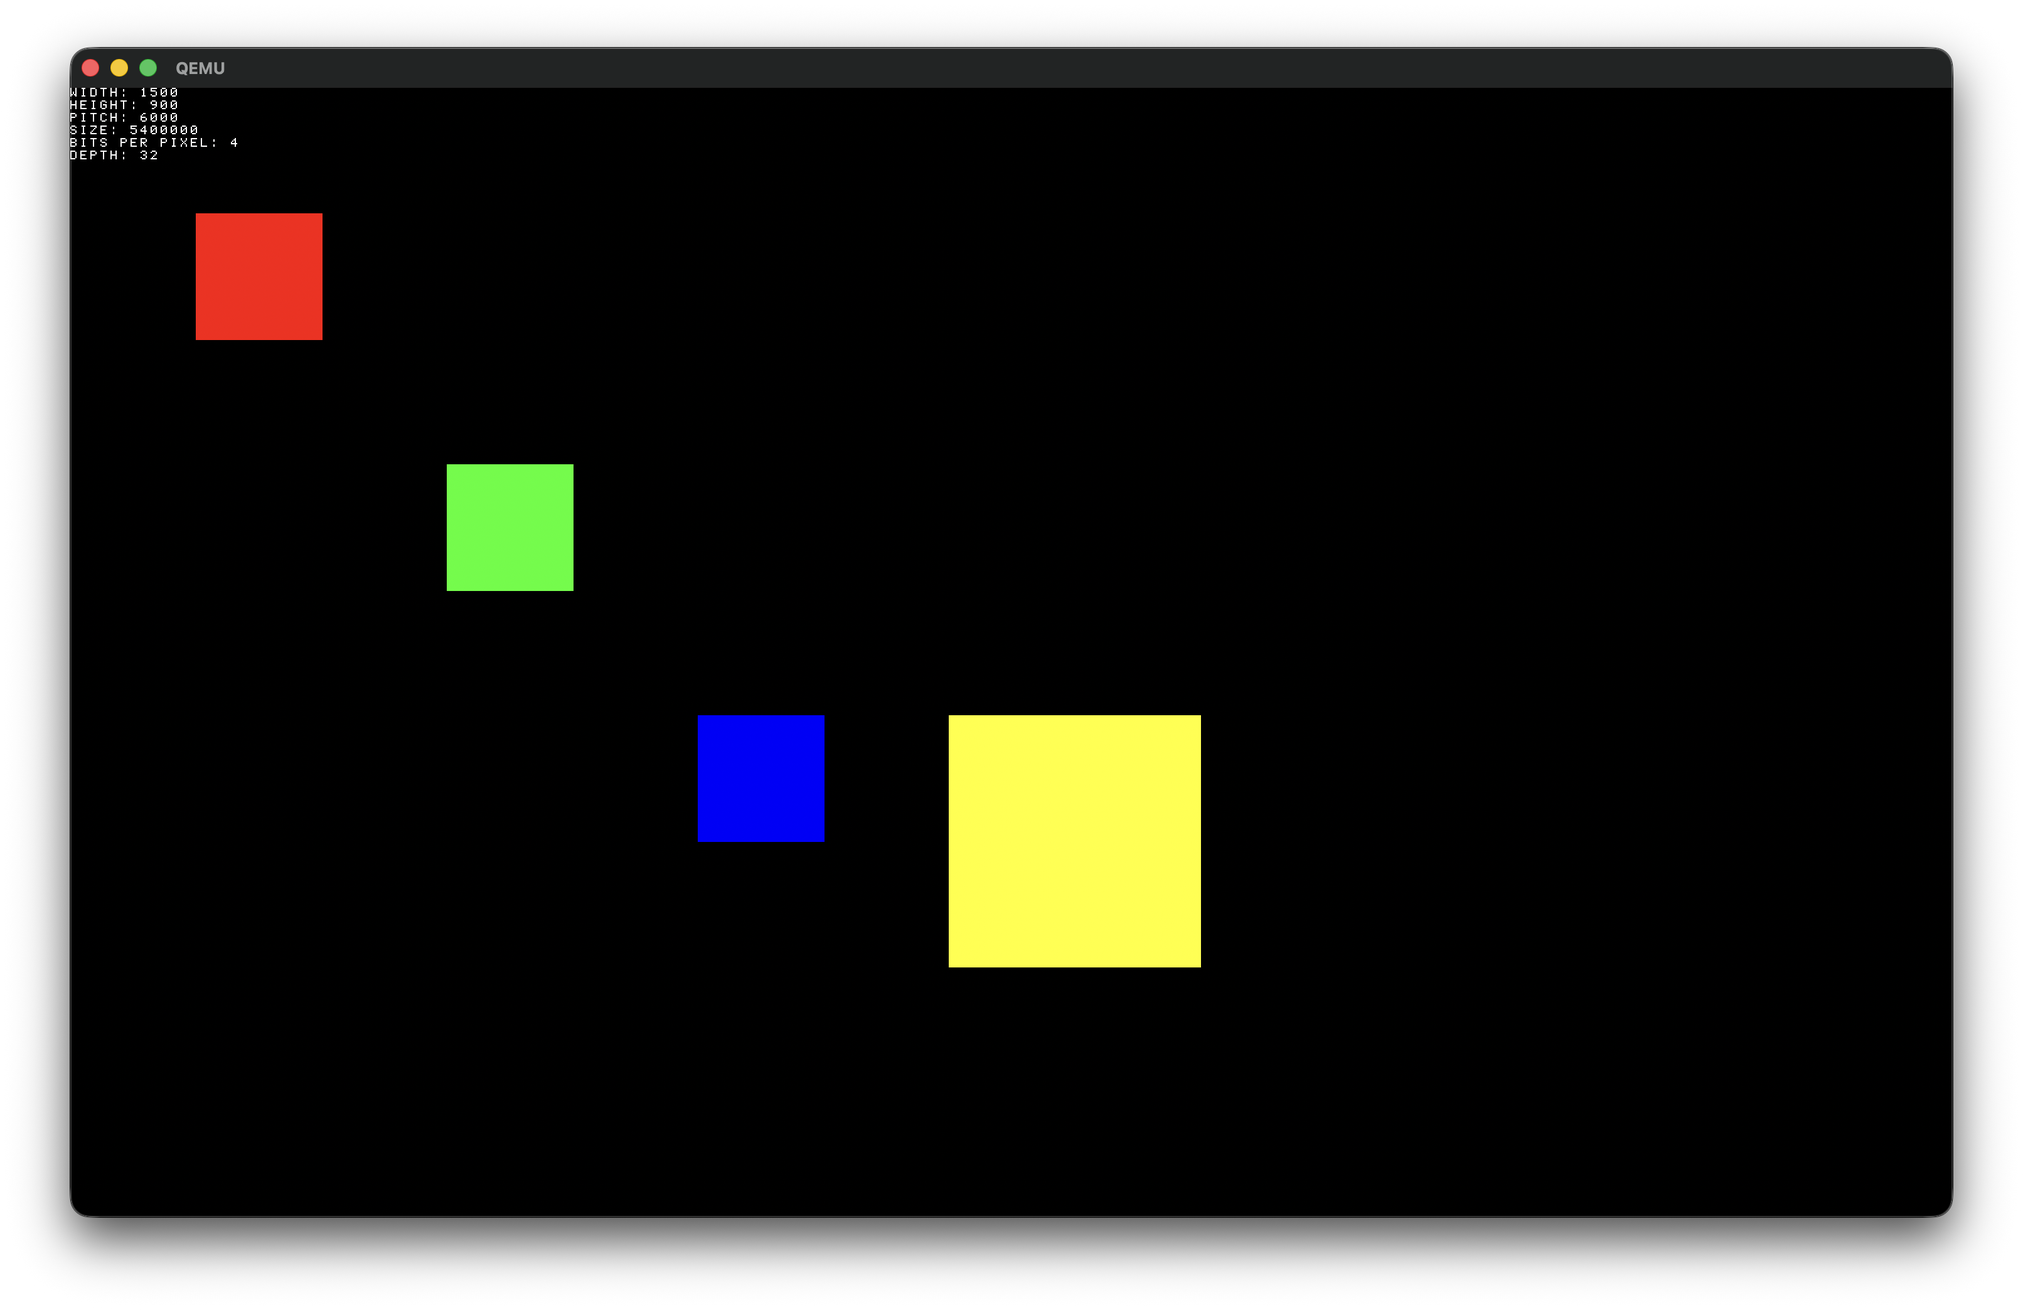
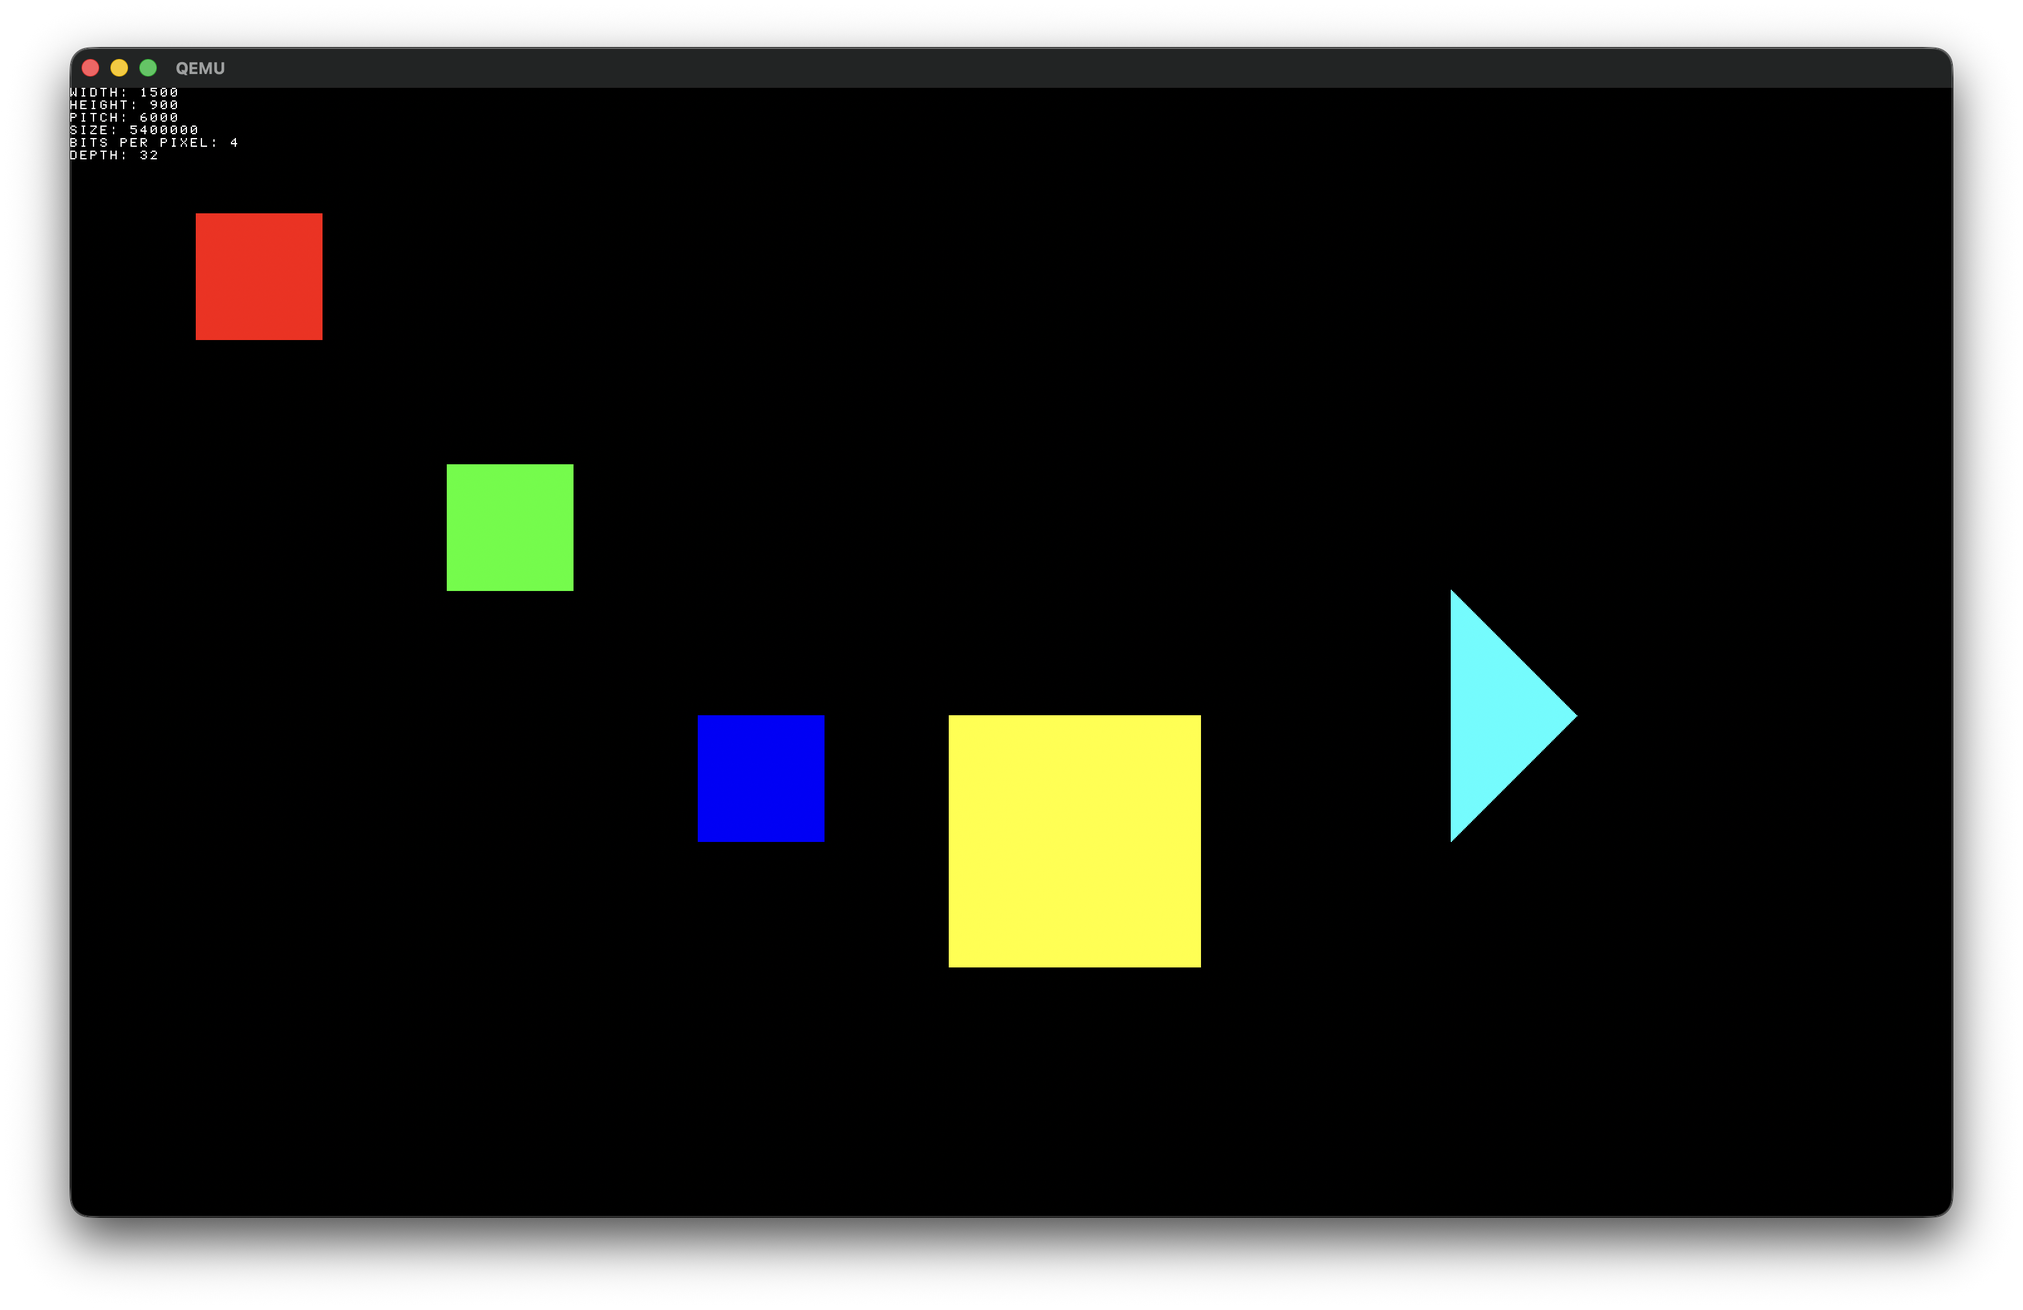
feat: add part 3

Changed region(s): [[0.7134, 0.467, 0.7754, 0.6537]]

diff --git a/content/operating-system-in-rust-2.md b/content/operating-system-in-rust-2.md
@@ -12,7 +12,9 @@ word_count = 3193
 author = "Benjamin Chibuzor-Orie"
 tags = ["Rust", "Operating System", "Low Level"]
 +++
-In [Part 1 we built the foundation of our operating system using Rust](@/operating-system-in-rust.md), dove deep into murky low level waters and broke free from the shackles of stdlib while still keeping the compiler happy. Now we are going into the meat of it all - the entry point.
+In [Part 1 we built the foundation of our operating system using Rust](@/operating-system-in-rust.md), dove deep into murky low level waters and broke free from the shackles of stdlib while still keeping the compiler happy. Now we are going into the meat of it all - the entry point. 
+
+Feel free to clone the <a href="https://github.com/iambenkay/rackOS/tree/part-2" target="_blank" rel="noopener">source code for part 2</a> from Github and follow along.
 ## Prepare for Entry
 When running programs on an operating system, there are a lot of things that are handled under the hood for us by the operating system. They are invisible to us and we take them for granted, we expect them to just work. In kernel space however, there are no training wheels, no invisible cogs turning in the background, everything is laid bare for us to see. Everything that works does so because we made it happen. It may sound overwhelming but it's this kind of foundational control that makes you truly appreciate how computers work at the lowest level. 
 
@@ -43,24 +45,12 @@ An instruction is the smallest unit of work that can be performed by a CPU. It t
 ### Program Counter
 The program counter is a special CPU register that always contains the memory location of the next instruction to execute. As soon as the CPU finishes executing an instruction it checks the program counter and goes on to execute the instruction at the location stored in the program counter. After the CPU reads the program counter, the program counter gets incremented to point to the next instruction and the cycle continues.
 
-## Implementing the Bootloader
+## Implementing the boot image
 Now that we have a foundational understanding of the building blocks, let's write some assembly code for booting into our kernel. I know I promised we will write as much Rust as possible but this is one of those scenarios where Rust does not cut it. This part of the process cannot be handled by Rust because Rust expects a stack pointer to have already been set up so it is a chicken and egg problem. Remember, the training wheels are off and everything is being done manually so this is one time when we will have to drop down to Assembly in order to configure our entrypoint. This is a delicate point so I want you to pay as much attention as you can afford to. 
 
-For your information, any code related to the entrypoint of a kernel is called the  bootloader. We will be writing the code for our bootloader in a bit but let us first structure the crate.
+For your information, any code related to the entrypoint of a kernel is called the boot code. We will be writing the our boot code, or as I prefer to call it "boot image", in a bit but let us first structure our crate.
 
-Create a file `src/bootloader.rs`:
-```rust
-#[cfg(target_arch = "aarch64")]
-#[path = "__arch__/aarch64/boot.rs"]
-mod boot;
-```
-Then load the module in `src/main.rs`:
-```rust
-mod bootloader;
-```
-This is a simple module containing the logic for our bootloader. Depending on the compilation target (aarch64) for now, it will load specific bootloader instructions from the respective file for each cpu.
-
-Let's also create a main function for our kernel in a new file `src/kernel.rs`:
+Let's create a main function for our kernel in a new file `src/kernel.rs`:
 ```rust
 pub fn main() -> ! {
     loop {}
@@ -71,7 +61,7 @@ This function will be called from our entrypoint and will handle all our kernel 
 mod kernel;
 ```
 
-Create another file `src/__arch__/aarch64/boot.rs`:
+Create a file `src/processors/aarch64/bootimage.rs`:
 ```rust
 use core::arch::global_asm;
 
@@ -87,7 +77,11 @@ pub fn _start_rust() -> ! {
 ```
 This is processor specific code. In this case it is expected to run only on aarch64 cpus. We load some assembly from the file `boot.S` substituting a variable `CONST_CORE_ID_MASK` in the assembly with the value `0b11`. Then we define `fn _start_rust()` which will serve as the first point of contact between assembly land and rust land. It calls our kernel main which we defined earlier. Note the `no_mangle` directive. It is required in order for the name of the function to not become scrambled during compilation since we will be calling the function from Assembly.
 
-Add the following content to `src/__arch__/aarch64/boot.S`:
+Then load the module in `src/processors/aarch64/mod.rs`:
+```rust
+mod bootimage;
+```
+Add the following content to `src/processors/aarch64/boot.S`:
 ```as
 //--------------------------------------------------------------------------------------------------
 // Definitions
@@ -214,11 +208,11 @@ so we need a mask that can select only the last two bits of this register value 
 0b01110010 & 0b11 = 0b10
 0b01110011 & 0b11 = 0b11
 ```
-We defined the mask `CONST_CORE_ID_MASK` a while ago in `src/__arch__/aarch64/boot.rs` and this is where it gets used. Depending on the board we are running on we can change this mask to `0b111` to support up to 7 cores or `0b1111` to support up to 15 cores.
+We defined the mask `CONST_CORE_ID_MASK` a while ago in `src/processors/aarch64/bootimage.rs` and this is where it gets used. Depending on the board we are running on we can change this mask to `0b111` to support up to 7 cores or `0b1111` to support up to 15 cores.
 
 Next, we load the value of the variable `BOOT_CORE_ID` (which we will define soon in Rust) and store that in the register `x1`. At this point `x0` contains the CPU number which the code is currently executing on and `x1` contains the target CPU we want to take control while parking the rest. We compare their values and branch to the parking logic if `x0` is not equal to `x1`, else we continue execution.
 
-Before we continue describing our startup logic, let's define the `BOOT_CORE_ID` variable that we used above. Create a file `src/__board__/raspberrypi/cpu.rs`:
+Before we continue describing our startup logic, let's define the `BOOT_CORE_ID` variable that we used above. Create a file `src/motherboards/raspberrypi/cpu.rs`:
 ```rust
 #[cfg(target_arch = "aarch64")]
 #[unsafe(no_mangle)]
@@ -227,14 +221,17 @@ pub static BOOT_CORE_ID: u64 = 0;
 ```
 `link_section = ".text._start_arguments"` adds a new section labelled `.text._start_arguments` and the variable `BOOT_CORE_ID` in that section. We are keeping the value as `0` because we want to boot into the first core as our primary core.
 
-Create another file `src/board_core.rs`:
+Create another file `src/motherboards/raspberrypi/mod.rs`:
 ```rust
-#[path = "__board__/raspberrypi/cpu.rs"]
 mod cpu;
+```
+Then another file `src/motherboards/mod.rs`:
+```rust
+pub mod raspberrypi;
 ```
 and then add the module to `src/main.rs`:
 ```rust
-mod board_core;
+mod motherboards;
 ```
 #### Initialize BSS
 The BSS is a data segment that stores uninitialized global and static variables. At startup we need to zero all the addresses within the BSS in preparation for uninitialized variables that will be stored in this segment. The following segment handles this:
@@ -264,7 +261,7 @@ The next piece of code is the bridge into our Rust code:
 	// Jump to Rust code.
 	b	_start_rust
 ```
-First we store the address of the end of the stack (configured later in the linker script) in `x0`. Then we set the value of the stack pointer register to that address. Finally we branch to the label for our Rust entry point (defined in `src/__arch__/aarch64/boot.rs`).
+First we store the address of the end of the stack (configured later in the linker script) in `x0`. Then we set the value of the stack pointer register to that address. Finally we branch to the label for our Rust entry point (defined in `src/processors/aarch64/bootimage.rs`).
 
 The next piece of code just defines the label for our parking loop so the other cores know what to do after being disqualified from running the kernel:
 ```as
@@ -279,9 +276,9 @@ Lastly, we define some metadata for this assembly module at the very end:
 .type	_start, function
 .global	_start
 ```
-The first directive `.size` computes the size of the routine `_start`. The second `.type` directive specifies the type of `_start` which is a function. The last `.global` directive makes the `_start` label a global entity which can be referenced by other libraries.
+The first directive `.size` computes the size of the routine `_start`. The second directive `.type` specifies the type of `_start` which is a function. The last directive `.global` makes the `_start` label a global entity which can be referenced by other libraries.
 
-Summarily, here is the bootloader flow:
+Summarily, here is the boot flow:
 {% mermaid() %}
 flowchart TD
     A["Firmware loads kernel"] --> B["_start<br/>(boot.S, .text._start)"]
@@ -290,16 +287,16 @@ flowchart TD
     C -- "yes" --> E["Zero BSS<br/>(__bss_start .. __bss_end_exclusive)"]
     E --> F["sp = __boot_core_stack_end_exclusive"]
     F --> G["b _start_rust"]
-    G --> H["_start_rust<br/>(boot.rs)"]
+    G --> H["_start_rust<br/>(bootimage.rs)"]
     H --> I["kernel::main()"]
 {% end %}
 
-We have implemented our bootloader in pure Assembly. I hope you enjoyed that! One last important step before we can run our kernel for the first time is Linking.
+We have implemented our boot image in pure Assembly. I hope you enjoyed that! One last important step before we can run our kernel for the first time is Linking.
 
 ### Writing the Linker Script
 Linking is the glue for everything we have done. A linker is responsible for taking both the assembly code and the Rust code and linking them into one binary but we have to explicitly tell the linker how we want our code to be organized; we have to define the memory layout for our binary!
 
-Create the file `src/__board__/raspberrypi/kernel.ld` and add the following content:
+Create the file `src/motherboards/raspberrypi/kernel.ld` and add the following content:
 ```ld
 __rpi_phys_dram_start_addr = 0;
 
@@ -464,17 +461,18 @@ SECTIONS
 ```
 The summary of what is going on is it defines the bounds of the Execution Stack, the actual code segment, and the data and BSS segment. I don't want to go too deep into the details of the linker script because it is vanity to master it all but feel free to discuss the details with any LLM in order to fully understand what is going on here.
 
-We are done with our bootloader and at this stage we can boot our kernel on either a physical device or the QEMU emulator. 
+We are done with our boot image and at this stage we can boot our kernel on either a physical device or the QEMU emulator. 
 Before we build, add the following to your Cargo.toml so that our Make script can run happily:
 ```toml
 [features]
 default = ["device", "rpi5"]
-emulator = ["color-rgb"]
+emulator = ["ltr-rgb"]
 device = []
 rpi5 = []
 rpi4 = []
-color-rgb = []
+ltr-rgb = []
 ```
+We aren't using some of the features listed here yet but in due time we will cover them.
 
 Let's build and run the kernel on QEMU using our emulator:
 ```bash
@@ -490,4 +488,4 @@ cargo make sync
 It attempts to copy the binary into a memory stick containing an existing Raspbian installation. Alter the task in `Makefile.toml` so it gets copied into the right path.
 
 ## Conclusion
-In this part, we implemented a bootloader and successfully booted our kernel on a raspberry pi environment but we still have a blank screen. In Part 3 we will be writing to the display; in QEMU that's the screen but on Raspberry Pi 5 that is the HDMI output.
+In this part, we implemented a boot image and successfully booted our kernel on a raspberry pi environment but we still have a blank screen. In [Part 3 we will be writing to the display](@/operating-system-in-rust-3.md); in QEMU that's the screen but on Raspberry Pi 5 that is the HDMI output.

diff --git a/content/operating-system-in-rust.md b/content/operating-system-in-rust.md
@@ -19,6 +19,8 @@ RackOS is in its infancy and the direction is not clear but the one certain thin
 Note that this series will be your biggest lesson on delayed gratification because we will write a lot of code before we even get to see anything meaningful on screen but I will foreshadow what you can get by the end of part 3 if you are patient enough:
 {{ image(src="/images/os-part3-result.png", alt="Part 3 Results OS Dev") }}
 
+You can also clone the <a href="https://github.com/iambenkay/rackOS/tree/part-1" target="_blank" rel="noopener">source code for part 1</a> from Github and follow along.
+
 ## Project Setup
 First things first, let us setup the foundation of the project. I'll be straight with you, I love Rust and I enjoy using the Rust ecosystem in its entirety so I will stay true to that and use it as obsessively as any true Rustacean; I won't hold back. Without doubt, all the dependencies we need are freely available as long as you have a working Rust/Cargo installation.
 
@@ -80,8 +82,8 @@ Cargo make is more modern and has a better syntax, we would be crazy not to go w
 Let us set up our `Makefile.toml`:
 ```toml
 [env]
-RUSTFLAGS = "-C target-cpu=cortex-a76 -C link-arg=--library-path=src/__board__/raspberrypi -C link-arg=--script=kernel.ld"
-RUSTFLAGS_PI4 = "-C target-cpu=cortex-a72 -C link-arg=--library-path=src/__board__/raspberrypi -C link-arg=--script=kernel.ld"
+RUSTFLAGS = "-C target-cpu=cortex-a76 -C link-arg=--library-path=src/motherboards/raspberrypi -C link-arg=--script=kernel.ld"
+RUSTFLAGS_PI4 = "-C target-cpu=cortex-a72 -C link-arg=--library-path=src/motherboards/raspberrypi -C link-arg=--script=kernel.ld"
 
 [tasks.compile]
 script = "RUSTFLAGS=${RUSTFLAGS} cargo objcopy --release  -- --strip-all -O binary target/kernel_2712.img"
@@ -111,8 +113,8 @@ args = [
 Let's go over everything that's happening here section by section:
 ```toml
 [env]
-RUSTFLAGS = "-C target-cpu=cortex-a76 -C link-arg=--library-path=src/__board__/raspberrypi -C link-arg=--script=kernel.ld"
-RUSTFLAGS_PI4 = "-C target-cpu=cortex-a72 -C link-arg=--library-path=src/__board__/raspberrypi -C link-arg=--script=kernel.ld"
+RUSTFLAGS = "-C target-cpu=cortex-a76 -C link-arg=--library-path=src/motherboards/raspberrypi -C link-arg=--script=kernel.ld"
+RUSTFLAGS_PI4 = "-C target-cpu=cortex-a72 -C link-arg=--library-path=src/motherboards/raspberrypi -C link-arg=--script=kernel.ld"
 ```
 The `[env]` directive is used to setup environment variables that all make tasks can inherit from and pass into their execution scope.
 Here we define two variables called `RUSTFLAGS`. They are used to pass special configuration options to rustc during compilation. One is used when compiling for the Pi 4 and the other is used for the Pi 5.
@@ -213,7 +215,7 @@ aarch64-cpu = { version = "9.x.x" }
 ```
 This adds a new crate with which we can conveniently run Aarch64 CPU instructions from Rust land in a rusty way. For the first time, we are going to write code which is expected to run on only one CPU architecture, aarch64. We will structure our code so that we can easily extend the operating system to work on a matrix of CPUs and Motherboards.
 
-Create a new file `src/__arch__/aarch64/cpu.rs`:
+Create a new file `src/processors/aarch64/cpu.rs`:
 ```rust
 use aarch64_cpu::asm;
 
@@ -224,21 +226,30 @@ pub fn wait_forever() -> ! {
     }
 }
 ```
-This function is really simple, it loops forever but with an interesting twist; it calls the `Wait-For-Event` instruction in ASM in order to optimize the forever loop so that the processor can go into a low power sleep mode until an event is received. Let's bubble it up and use it in our panic handler.
+This function is really simple, it loops forever but with an interesting twist; it calls the `Wait-For-Event` instruction in ASM in order to optimize the forever loop so that the processor can go into a low power sleep mode until an event is received. Let's link this file into the rest of our crate and use it in our panic handler.
 
-Create a new file `src/cpu.rs`:
+Create a file `src/processors/aarch64/mod.rs`:
 ```rust
-#[cfg(target_arch = "aarch64")]
-#[path = "__arch__/aarch64/cpu.rs"]
-mod arch_cpu;
+pub mod cpu;
+```
+Then create `src/processors/mod.rs`:
+```rust
+mod aarch64;
 
-pub use arch_cpu::wait_forever;
+#[cfg(target_arch = "aarch64")]
+pub use aarch64::cpu::wait_forever;
+```
+Most of the code we are going to write will be either specific to a CPU type or specific to a motherboard so we will be doing this kind of modularization from the start so that our code is well organized and maintainable.
+
+Finally, add the following content to `src/main.rs`:
+```rust
+mod processors;
 ```
 We can go back to `panic_cfg.rs` and update the implementation of `fn panic()`:
 ```rust
 #[panic_handler]
 fn panic(_info: &PanicInfo) -> ! {
-    crate::cpu::wait_forever()
+    crate::processors::wait_forever()
 }
 ```
 At this point, `cargo check` is no longer failing and if we run `cargo build` it succeeds with a warning:

diff --git a/content/operating-system-in-rust-3.md b/content/operating-system-in-rust-3.md
@@ -1,0 +1,15 @@
++++
+title = "Building an Operating System In Rust Part 3"
+slug = "building-an-operating-system-in-rust-part-3"
+date = 2026-06-20
+description = "When running programs on an existing operating system, there are a lot of things that are handled under the hood for us by the operating system. They are invisible to us and we take them for granted, we expect them to just work. In kernel space there are no training wheels"
+
+[extra]
+header_img = "/images/header-rust.jpg"
+header_alt = "Rust"
+section = "Programming"
+word_count = 3193
+author = "Benjamin Chibuzor-Orie"
+tags = ["Rust", "Operating System", "Low Level"]
++++
+In [Part 2 we built an entrypoint for our operating system](@/operating-system-in-rust-2.md) and ran it successfully on QEMU and a physical Raspberry Pi 5 device. We also learnt about the boot image and how to link our kernel source code into one kernel binary. Next we are going to write to the screen!
